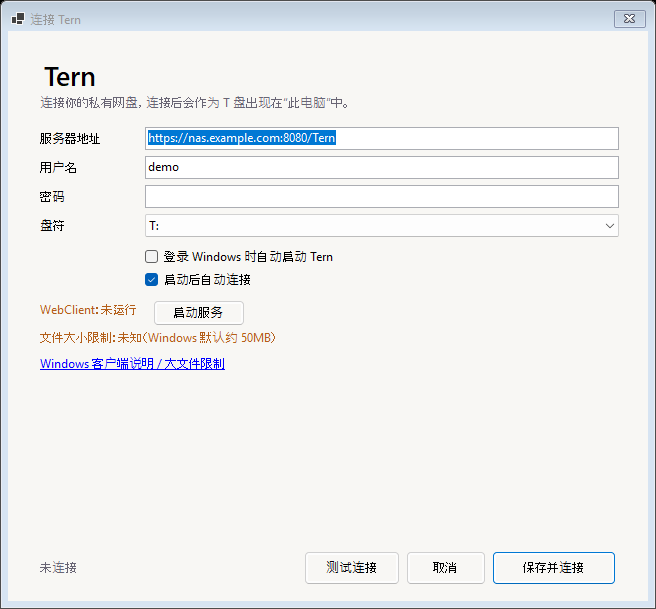
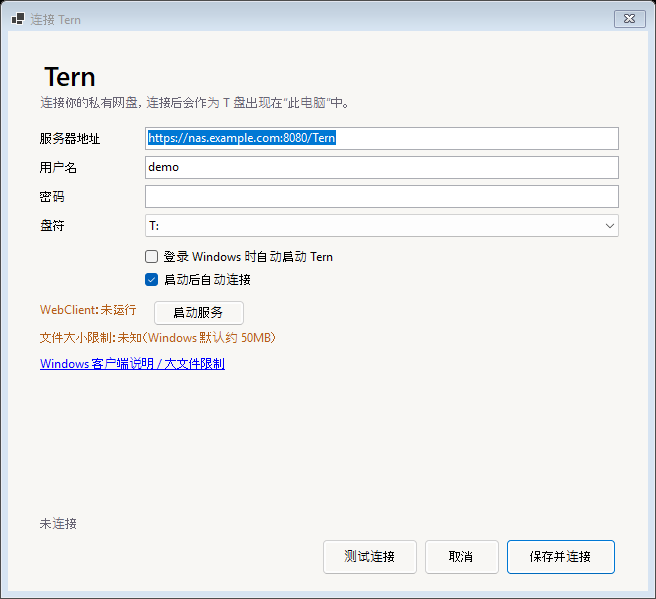
fix(windows): log tray state and refresh settings screenshot

diff --git a/windows/TrayApplicationContext.cs b/windows/TrayApplicationContext.cs
@@ -18,6 +18,7 @@ public sealed class TrayApplicationContext : ApplicationContext
     private string? _savedPassword;
     private SettingsForm? _settingsForm;
     private bool _busy;
+    private bool? _lastConnected;
 
     public TrayApplicationContext(string[] args)
     {
@@ -130,6 +131,13 @@ public sealed class TrayApplicationContext : ApplicationContext
     {
         var connected = IsConnected();
         var drive = _settings.DriveLetter + ":";
+
+        if (_lastConnected != connected)
+        {
+            var remote = DriveMapper.GetMappedRemote(_settings.DriveLetter);
+            Log.Info($"托盘连接状态：connected={connected}, drive={drive}, remote={remote ?? "<none>"}, server={_settings.ServerUrl}");
+            _lastConnected = connected;
+        }
 
         _statusItem.Text = connected ? $"已连接 · {drive} · 在线" : "未连接";
         _connectItem.Text = connected ? "断开连接" : "连接";
